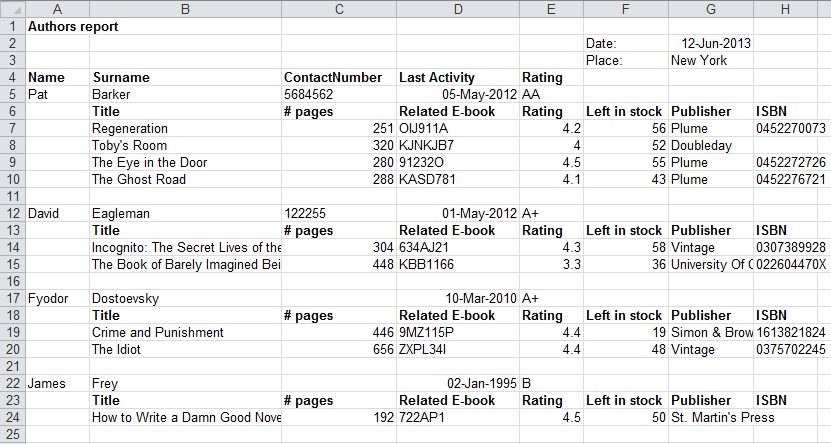
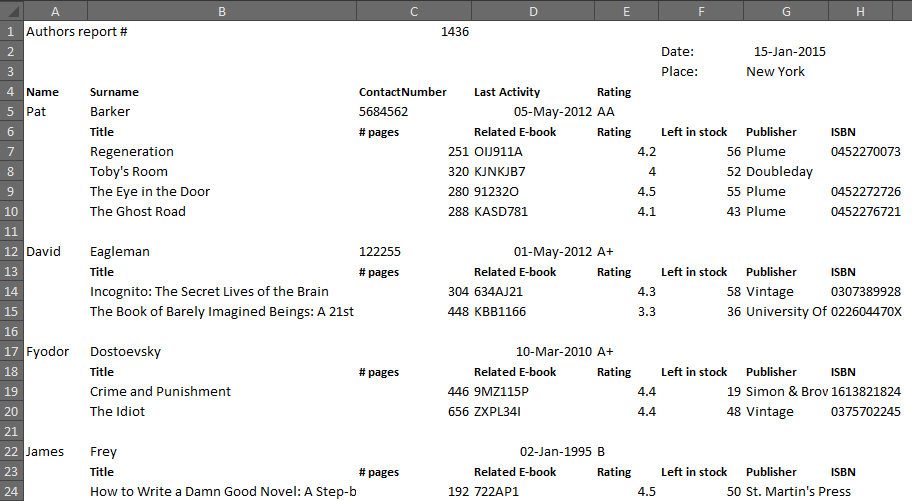
Updated examples and project title

diff --git a/examples/src/main/java/examples/conditional/ConditionalReportView.java b/examples/src/main/java/examples/conditional/ConditionalReportView.java
@@ -26,7 +26,8 @@ public class ConditionalReportView {
 
     public WorkbookContext render(ConditionalReportModel model) {
         WorkbookContext workbookCtx = ctxFactory.createWorkbook();
-        SheetContext sheetCtx = workbookCtx.createSheet("Books");
+        SheetContext sheetCtx = workbookCtx.createSheet("Books")
+                .hideGrid();
 
         // report heading
         sheetCtx
@@ -44,7 +45,7 @@ public class ConditionalReportView {
         sheetCtx
             .nextRow()
                 .header("Name")
-                .header("Surname").setColumnWidth(25)
+                .header("Surname").setColumnWidth(35)
                 .header("ContactNumber").setColumnWidth(15)
                 .header("Last Activity").setColumnWidth(16)
                 .header("Rating");

diff --git a/README.md b/README.md
@@ -1,4 +1,4 @@
-POI Builder library
+Java Excel report Builder library (using POI)
 ===
 
 An easy way to generate Excel reports.
@@ -18,11 +18,11 @@ The easiest use of subtlelib: we display a collection of domain objects in an ex
 #### Source code
     public class SimpleReportView {
         private final WorkbookContextFactory ctxFactory;
-    
+
         public SimpleReportView(WorkbookContextFactory ctxFactory) {
             this.ctxFactory = ctxFactory;
         }
-    
+
         public WorkbookContext render(Collection<Payment> payments) {
             WorkbookContext workbookCtx = ctxFactory.createWorkbook();
             SheetContext sheetCtx = workbookCtx.createSheet("Payments");
@@ -72,15 +72,16 @@ The easiest use of subtlelib: we display a collection of domain objects in an ex
 #### Source code
     public class ConditionalReportView {
         private final WorkbookContextFactory ctxFactory;
-    
+
         public ConditionalReportView(WorkbookContextFactory ctxFactory) {
             this.ctxFactory = ctxFactory;
         }
-    
+
         public WorkbookContext render(ConditionalReportModel model) {
             WorkbookContext workbookCtx = ctxFactory.createWorkbook();
-            SheetContext sheetCtx = workbookCtx.createSheet("Books");
-    
+            SheetContext sheetCtx = workbookCtx.createSheet("Books")
+                    .hideGrid();
+
             // report heading
             sheetCtx
                 .nextRow()
@@ -92,16 +93,16 @@ The easiest use of subtlelib: we display a collection of domain objects in an ex
                 .nextRow().cellAt(5)
                     .text("Place:")
                     .text(model.getReportCreationPlace());
-    
+
             // columns heading
             sheetCtx
                 .nextRow()
                     .header("Name")
-                    .header("Surname").setColumnWidth(25)
+                    .header("Surname").setColumnWidth(35)
                     .header("ContactNumber").setColumnWidth(15)
                     .header("Last Activity").setColumnWidth(16)
                     .header("Rating");
-    
+
             // data
             for (Author author: model.getBooksByAuthor().keySet()) {
                 sheetCtx
@@ -119,7 +120,7 @@ The easiest use of subtlelib: we display a collection of domain objects in an ex
                         .header("Left in stock")
                         .header("Publisher")
                         .header("ISBN");
-    
+
                 for (Book book : model.getBooksByAuthor().get(author)) {
                     sheetCtx
                         .nextRow().skipCell()
